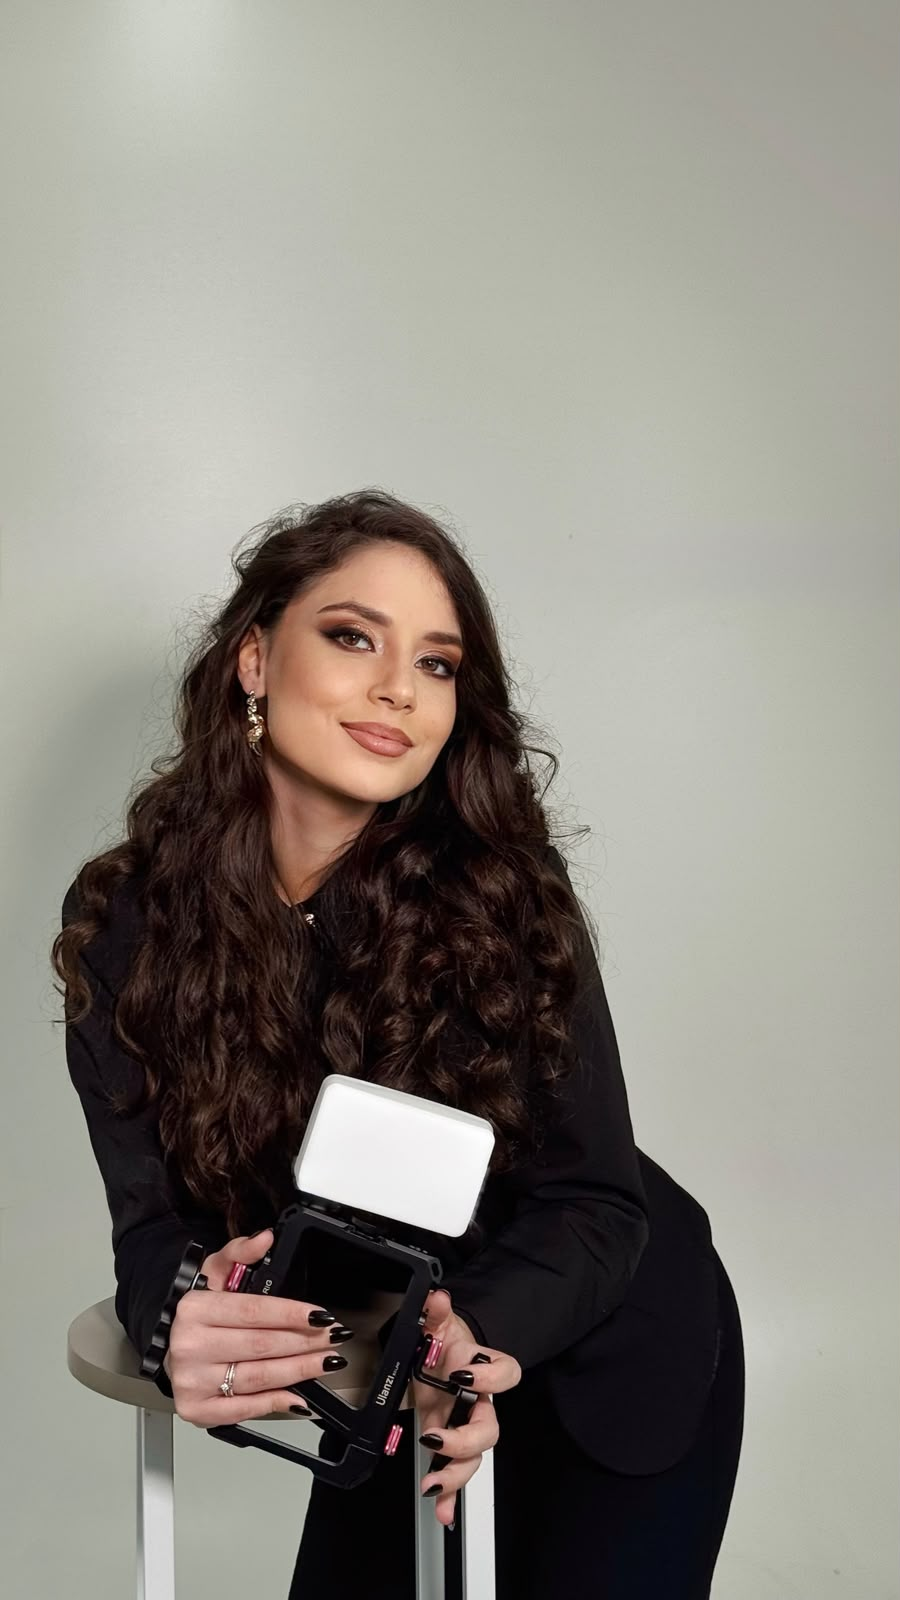
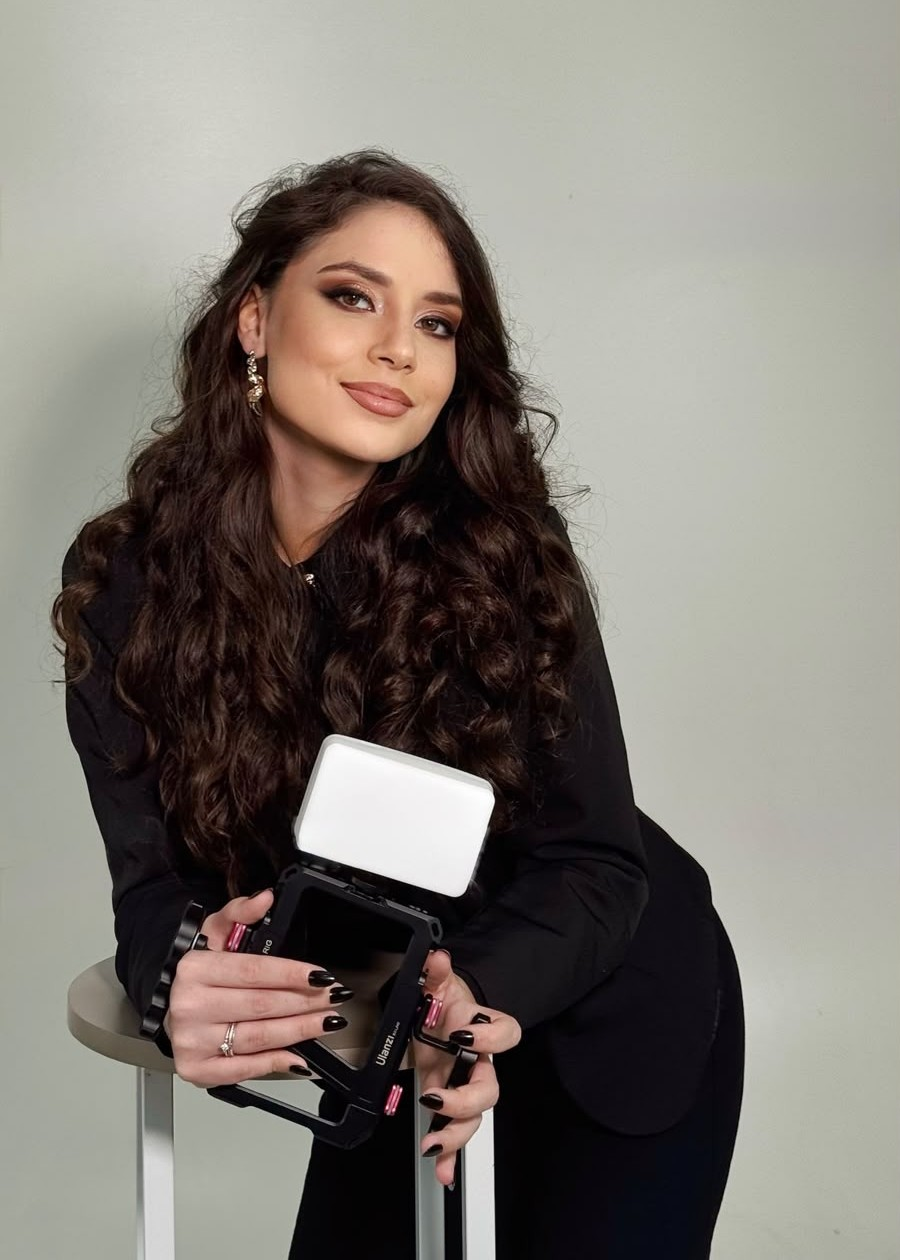
Add files via upload

Changed region(s): [[0.0, 0.0929, 0.84, 0.9905], [0.8089, 0.8667, 0.84, 0.9286], [0.7778, 0.9286, 0.8089, 0.9905]]

diff --git a/style.css b/style.css
@@ -216,7 +216,7 @@ p { margin: 0; }
 .section-heading h2, .branding h2, .contact h2 { font-size: clamp(2.35rem, 7vw, 3.4rem); }
 .about .section-heading { text-align: center; }
 .about-photo-wrap { max-width: 25rem; margin-inline: auto; }
-.about-photo { width: 100%; aspect-ratio: 4 / 5; object-fit: cover; border-radius: 1rem; }
+.about-photo { width: 80%; aspect-ratio: 4 / 5; object-fit: cover; border-radius: 1rem; }
 .about-copy { display: grid; gap: 1rem; max-width: 38rem; }
 .about-greeting { color: var(--color-5); font-family: var(--font-display); font-size: 1.45rem; }
 

diff --git a/index.html b/index.html
@@ -67,7 +67,7 @@
           <h2 id="about-title">Sobre mim</h2>
         </div>
         <div class="about-photo-wrap">
-          <img class="about-photo" src="/foto-sobre.jpeg" alt="Júlia Camargo">
+          <img class="about-photo" src="/foto-sobre.jpg" alt="Júlia Camargo">
         </div>
         <div class="about-copy">
           <p class="about-greeting">Prazer, eu sou a Júlia!</p>
